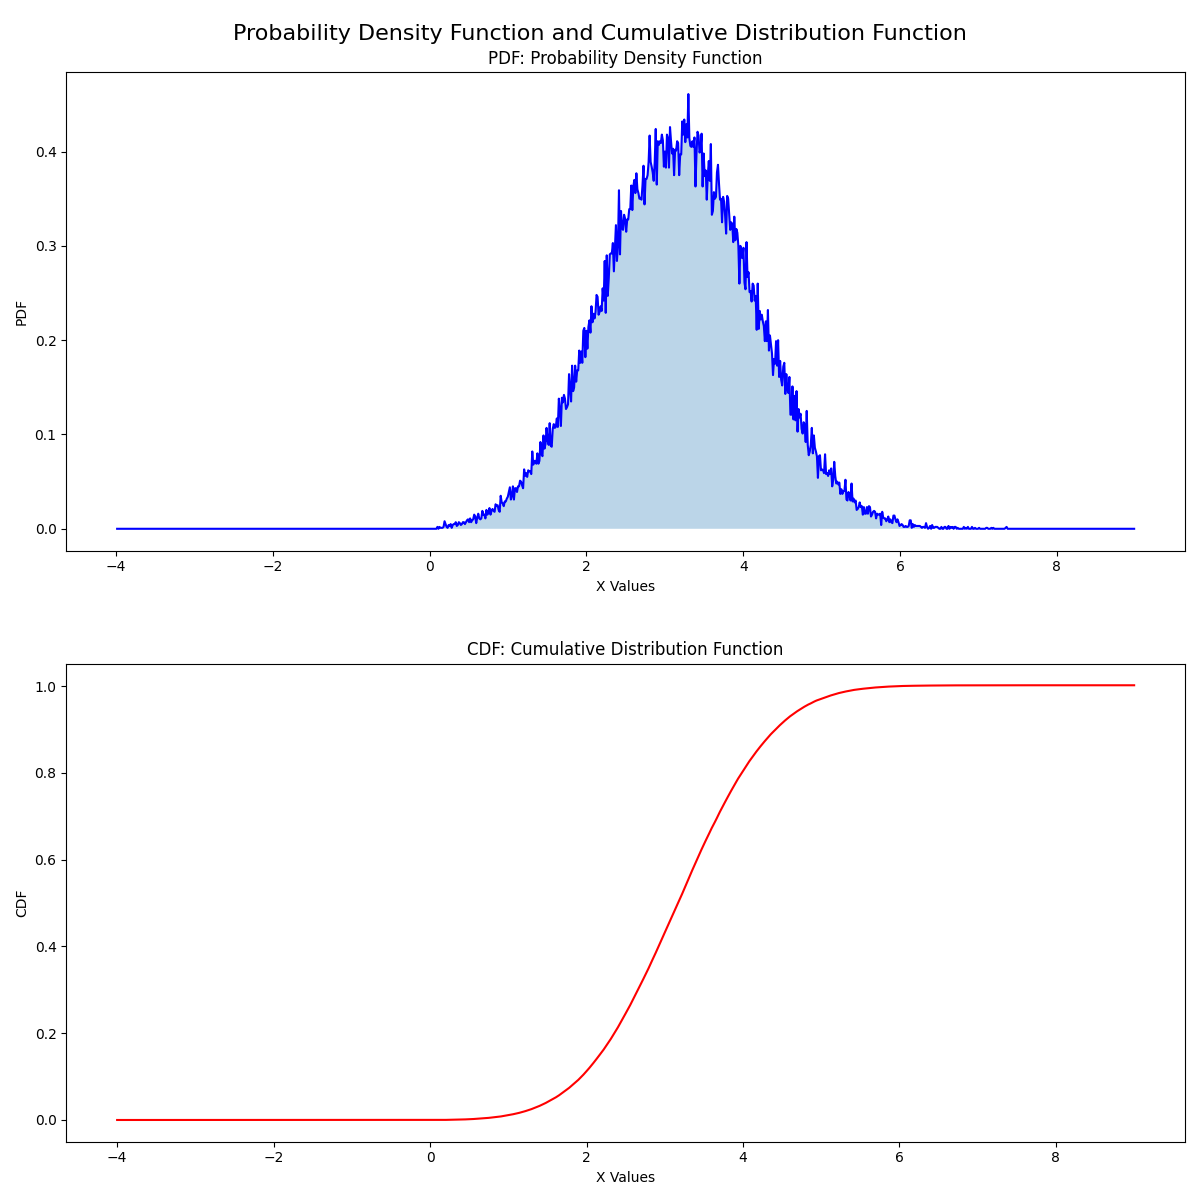
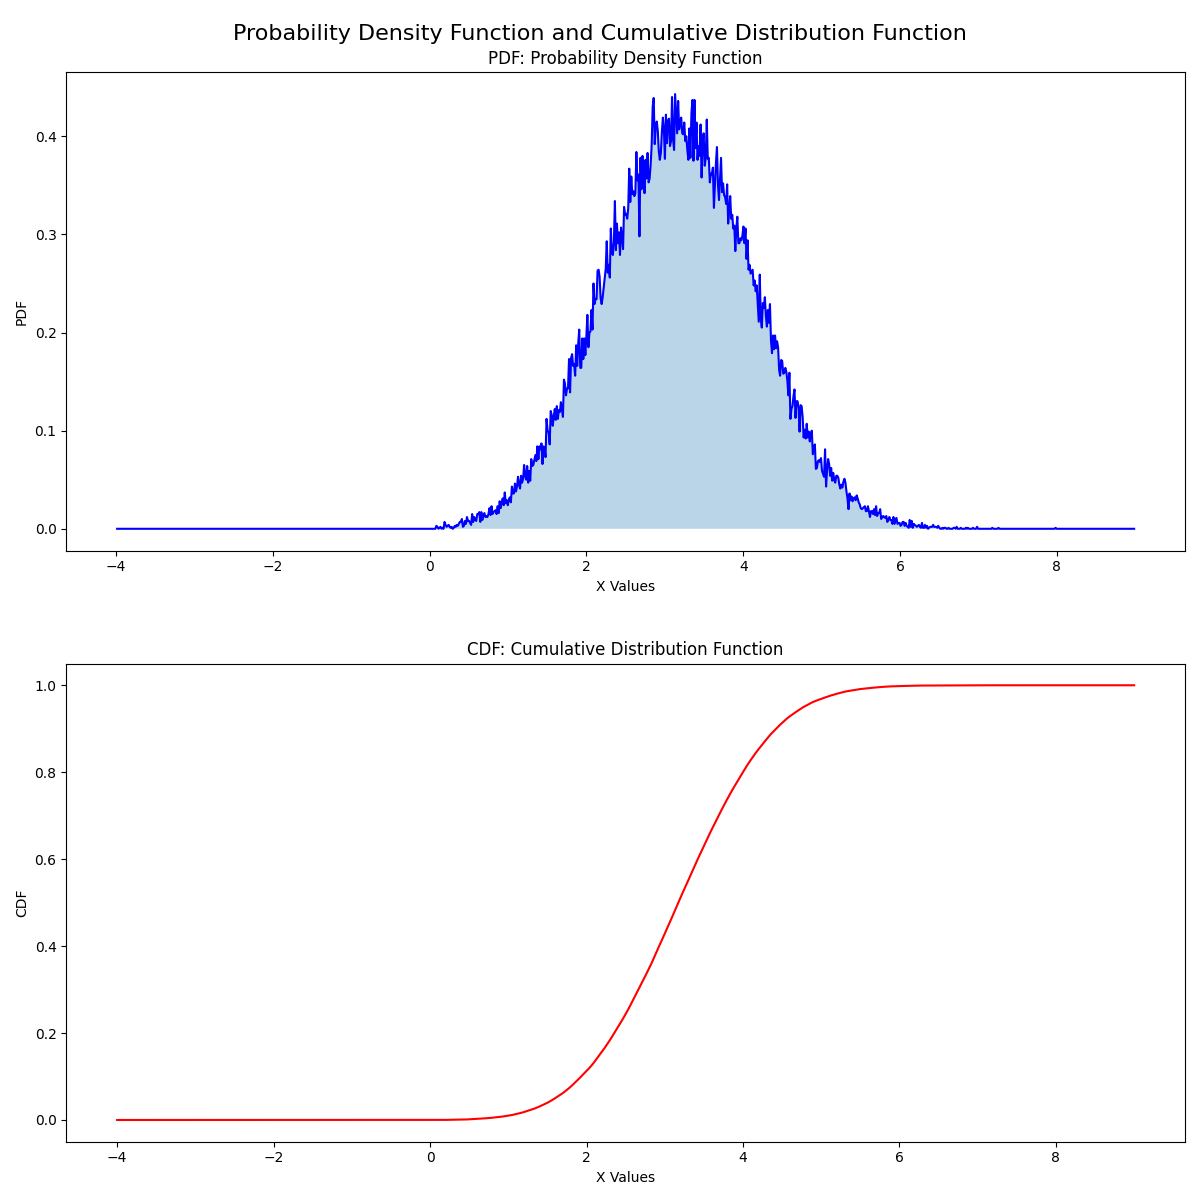
Fifth commit

diff --git a/main.py b/main.py
@@ -213,7 +213,7 @@ def main():
 
 #--------------------------------------------------------------------------------------------------------
     # fz function is sqrt of x ** 2 + y ** 2
-    # it gives us the rayleigh pdf function
+    # it gives us the rayleigh pdf function, variance = 1
     fz_values = fz_wrapper(random_floats_with_mean_zero1, random_floats_with_mean_zero2)
     counted_values = count_values_by_method(fz_values, method=METHOD_COUNTER_CLASS, x_range=(-6, 6))
     display_results(counted_values)
@@ -224,10 +224,35 @@ def main():
         file_name="rayleigh_pdf_and_cdf_plot.png",
     )
 
+    # --------------------------------------------------------------------------------------------------------
+    # fz function is sqrt of x ** 2 + y ** 2
+    # it gives us the rayleigh pdf function, variance = 0.5
+    fz_values = fz_wrapper(random_floats_with_mean_zero1 * np.array(0.5), random_floats_with_mean_zero2 * np.array(0.5))
+    counted_values = count_values_by_method(fz_values, method=METHOD_COUNTER_CLASS, x_range=(-6, 6))
+    display_results(counted_values)
+
+    save_pdf_and_cdf_plot_from_pdf(
+        counted_values,
+        display=True,
+        file_name="rayleigh_pdf_and_cdf_plot_05.png",
+    )
+
+    # --------------------------------------------------------------------------------------------------------
+    # fz function is sqrt of x ** 2 + y ** 2
+    # it gives us the rayleigh pdf function, variance = 4
+    fz_values = fz_wrapper(random_floats_with_mean_zero1 * np.array(4), random_floats_with_mean_zero2 * np.array(4))
+    counted_values = count_values_by_method(fz_values, method=METHOD_COUNTER_CLASS, x_range=(0, 15))
+    display_results(counted_values)
+
+    save_pdf_and_cdf_plot_from_pdf(
+        counted_values,
+        display=True,
+        file_name="rayleigh_pdf_and_cdf_plot_40.png",
+    )
 # --------------------------------------------------------------------------------------------------------
     # we generate randn floats but with a mean value added to them,
     # we're plotting the output of the function to show that it's a normal pdf with the desired mean.
-    random_floats_with_mean1 = generate_random_floats_with_mean(mean=1.3)
+    random_floats_with_mean1 = generate_random_floats_with_mean(mean=1.1)
     random_floats_with_mean2 = generate_random_floats_with_mean(mean=0.3)
 
     counted_values = count_values_by_method(random_floats_with_mean1, method=METHOD_COUNTER_CLASS, x_range=(-6, 6))
@@ -236,7 +261,7 @@ def main():
     save_pdf_and_cdf_plot_from_pdf(
         counted_values,
         display=True,
-        file_name="randn_pdf_and_cdf_plot_03_13_mean.png",
+        file_name="randn_pdf_and_cdf_plot_11_mean.png",
     )
 
 # --------------------------------------------------------------------------------------------------------
@@ -248,7 +273,7 @@ def main():
     save_pdf_and_cdf_plot_from_pdf(
         counted_values,
         display=True,
-        file_name="rice_pdf_and_cdf_plot_03_20_mean.png",
+        file_name="rice_pdf_and_cdf_plot_03_11_mean.png",
     )
 
 # --------------------------------------------------------------------------------------------------------
@@ -286,6 +311,7 @@ def main():
     counted_values = count_values_by_method(fz_values, method=METHOD_COUNTER_CLASS, x_range=(-4, 9))
     display_results(counted_values)
 
+    print("Mean Values Rice 2 and 3 = " + str(np.mean(fz_values)))
     save_pdf_and_cdf_plot_from_pdf(
         counted_values,
         display=True,
